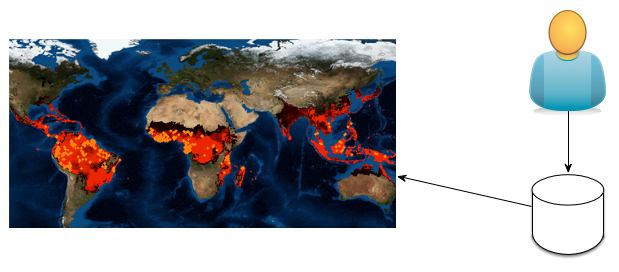
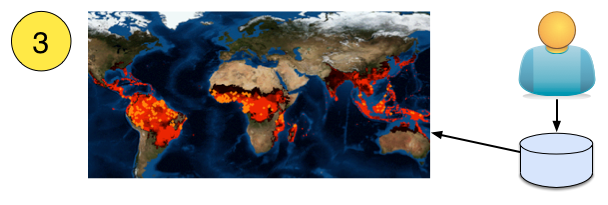
added better images

diff --git a/elseweb.cybershare.utep.edu/html/index.html b/elseweb.cybershare.utep.edu/html/index.html
@@ -148,12 +148,11 @@
 								<div class="row">
 									<div class="4u">
 										<article class="item">
-											<a href="" class="image full"><img src="img/harvesting.png" alt="" />
+											<a href="" class="image full"><img src="img/harvesting.png" alt="" /></a>
 											<header>
 												<h3>Harvesting</h3>
 											</header>
 										</article>
-									
 										<!-- Removed by Nick D	
 										<article class="item">
 											<a href="http://ineedchemicalx.deviantart.com/art/Mind-is-a-clear-stage-375431607" class="image full"><img src="images/pic03.jpg" alt="" /></a>
